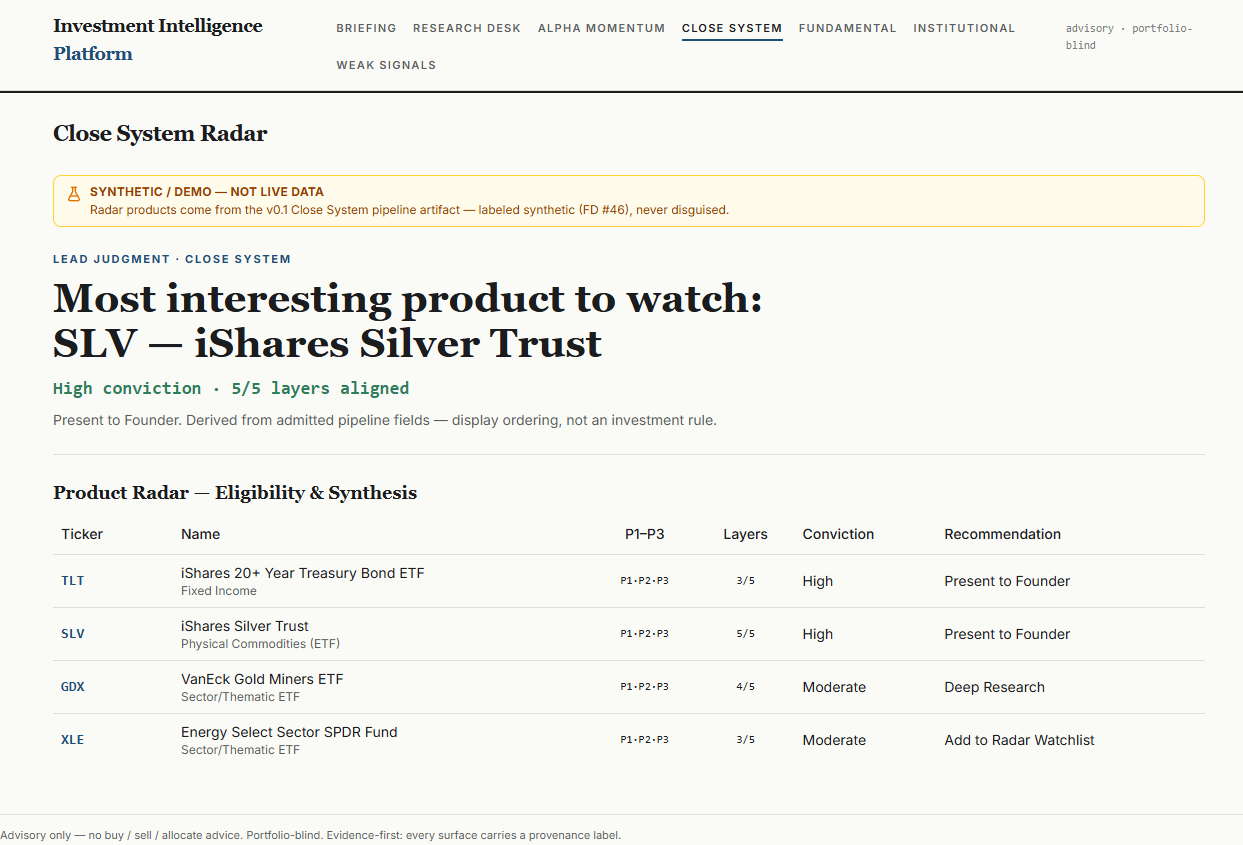
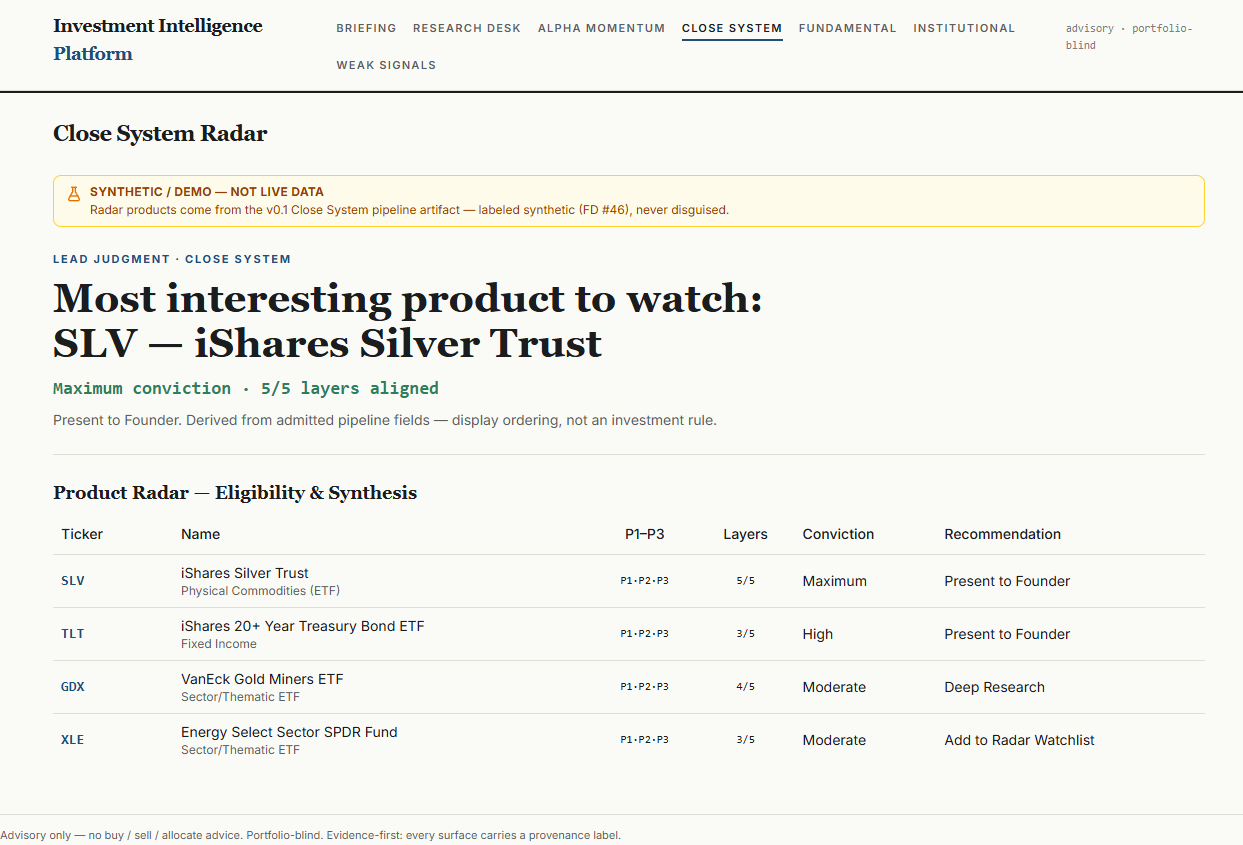
fix: FD #57 council R2 — pipeline S5 conviction scale spec-true (Maximum highest per §5.1; conviction_order + breakdown totals input_count), priority order SLV-first, locked pipeline tests (breakdown sum + Maximum==1 + priority), artifact regenerated CS-V0-20260805-173858, API radar order + run pins

diff --git a/tests/locked/test_real_data_api.py b/tests/locked/test_real_data_api.py
@@ -467,8 +467,9 @@ def test_cs_radar_pipeline_synthetic_demo():
     assets = body["assets"]
     assert isinstance(assets, list)
     tickers = [a["ticker"] for a in assets]
-    # eligible radar products from the committed v0.1 pipeline artifact, list order preserved
-    assert tickers == ["TLT", "SLV", "GDX", "XLE"], tickers
+    # eligible radar products from the committed v0.1 pipeline artifact, conviction-priority order
+    # (Maximum SLV first per spec §5.1)
+    assert tickers == ["SLV", "TLT", "GDX", "XLE"], tickers
     # admitted pipeline fields (FD #57)
     slv = next(a for a in assets if a["ticker"] == "SLV")
     assert slv["p1_pass"] is True and slv["p2_pass"] is True and slv["p3_pass"] is True
@@ -511,8 +512,8 @@ def test_dashboard_per_component_provenance_and_cs_agreement():
     assert body["components"]["ii"]["data_source"].startswith("real")
     # CS: pipeline-linked synthetic surface (FD #57) — run_id/point_in_time from the artifact
     cs = body["components"]["cs"]
-    assert cs["run_id"] == "CS-V0-20260805-173203"
-    assert cs["point_in_time"] == "2026-08-05T17:32:03.294078"
+    assert cs["run_id"] == "CS-V0-20260805-173858"
+    assert cs["point_in_time"] == "2026-08-05T17:38:58.222393"
     assert cs["data_source"] == "synthetic_demo"
     assert cs["source"] == "close_system_pipeline"
     # SOL-003 triple agreement preserved: dashboard CS counts == /api/cs-radar via the adapter;

diff --git a/close_system/test_locked/test_pipeline.py b/close_system/test_locked/test_pipeline.py
@@ -217,9 +217,23 @@ class TestS5Synthesis:
             stage_p2_discount(PRODUCTS)[1],
             stage_p3_demand(PRODUCTS)[1])
         cb = s5["conviction_breakdown"]
-        assert cb["High"] >= 1    # SLV
+        # Breakdown must account for every input product (spec §5.1 4-level scale)
+        assert sum(cb.values()) == s5["input_count"]
+        assert cb["Maximum"] == 1  # SLV — 5/5 layers + hidden corroboration + discount confirmed
+        assert cb["High"] >= 1    # TLT
         assert cb["Moderate"] >= 2  # GDX, XLE
         assert cb["Low"] >= 1      # COPPER
+
+    def test_conviction_priority_order(self):
+        # Maximum must sort ahead of High in the prioritized eligible bucket (spec §5.1)
+        s5, synthesized = stage_synthesis(PRODUCTS,
+            stage_p2_discount(PRODUCTS)[1],
+            stage_p3_demand(PRODUCTS)[1])
+        eligible = [s for s in synthesized if s["eligible"]]
+        slv_idx = next(i for i, s in enumerate(eligible) if s["ticker"] == "SLV")
+        tlt_idx = next(i for i, s in enumerate(eligible) if s["ticker"] == "TLT")
+        assert eligible[slv_idx]["conviction"] == "Maximum"
+        assert slv_idx < tlt_idx
 
 
 class TestS6Radar:

diff --git a/close_system/pipeline.py b/close_system/pipeline.py
@@ -207,7 +207,8 @@ def stage_synthesis(products, p2_results, p3_results):
         synthesized.append(entry)
 
     # Sort: eligible first by conviction, then by recommendation rank
-    conviction_order = {"High": 0, "Moderate": 1, "Low": 2}
+    # Conviction scale per spec §5.1: Low < Moderate < High < Maximum
+    conviction_order = {"Maximum": 0, "High": 1, "Moderate": 2, "Low": 3}
     synthesized.sort(key=lambda s: (
         0 if s["eligible"] else 1,
         conviction_order.get(s["conviction"], 9),
@@ -221,6 +222,7 @@ def stage_synthesis(products, p2_results, p3_results):
         "eligible_count": len([s for s in synthesized if s["eligible"]]),
         "ineligible_count": len([s for s in synthesized if not s["eligible"]]),
         "conviction_breakdown": {
+            "Maximum": len([s for s in synthesized if s["conviction"] == "Maximum"]),
             "High": len([s for s in synthesized if s["conviction"] == "High"]),
             "Moderate": len([s for s in synthesized if s["conviction"] == "Moderate"]),
             "Low": len([s for s in synthesized if s["conviction"] == "Low"]),

diff --git a/evidence/ui/cs-product-detail/VISUAL_QA.md b/evidence/ui/cs-product-detail/VISUAL_QA.md
@@ -47,8 +47,15 @@
 | 1 | target_discount_entry null rendered as empty row on Product Thesis | `CSProductDetailPage.tsx` Row fallback `"Not specified in pipeline artifact"` | Browser + screenshot 06 re-captured; console clean |
 | 2 | SLV conviction "High" contradicted its rationale ("rare Maximum conviction candidate") | `close_system/fixtures.py` SLV conviction → **Maximum** (spec §5.1: 5/5 aligned + hidden corroboration + discount confirmed = Maximum); artifact regenerated via `python close_system/run.py` (run CS-V0-20260805-173203, point_in_time 2026-08-05T17:32:03; output/ is gitignored generated output — diff = run_id/point_in_time + conviction only); locked test pins updated + conviction==Maximum assertion | Suite 310/310, browser header "Maximum conviction" |
 
+## Council round 2 → PASS WITH FIXES (2026-08-05) — 2 findings, both remediated + re-verified
+
+| # | Finding | Fix | Verified |
+|---|---|---|---|
+| 1 | pipeline.py S5 omitted Maximum from conviction_order + conviction_breakdown → breakdown 4/5, SLV demoted behind TLT | `close_system/pipeline.py` S5: conviction_order = {Maximum:0, High:1, Moderate:2, Low:3} (spec §5.1) + Maximum in breakdown; locked pipeline tests: breakdown sums to input_count, Maximum == 1, priority test (SLV before TLT) | Artifact regenerated CS-V0-20260805-173858; S5 breakdown {Maximum:1, High:1, Moderate:2, Low:1} = 5/5; radar order SLV first; pipeline 26/26; API test order updated; suite **311/311** |
+| 2 | Screenshot 05 + VISUAL_QA stale (High wording predated regeneration) | Screenshot 05 re-captured (SLV Maximum lead + first row); VISUAL_QA wording updated | Browser: "Maximum conviction · 5/5 layers aligned", SLV row first |
+
 ## Verdict
 
-**PASS (implementer claim after council fixes)** — pipeline fields admitted with F3 discipline, mock-only values absent, honest empties + spec-true conviction reconciliation, detail page renders real admitted data, console clean. Independent visual review round 2 (focused retest) pending.
+**PASS (implementer claim after council round-2 fixes)** — pipeline S5 conviction scale now spec-true end-to-end (fixture → pipeline → artifact → API → UI), breakdown totals input, priority order Maximum-first, evidence fresh. Independent visual review round 3 (final retest) pending.
 
-<!-- 2026-08-05 17:50 UTC+7 -->
+<!-- 2026-08-05 18:05 UTC+7 -->
